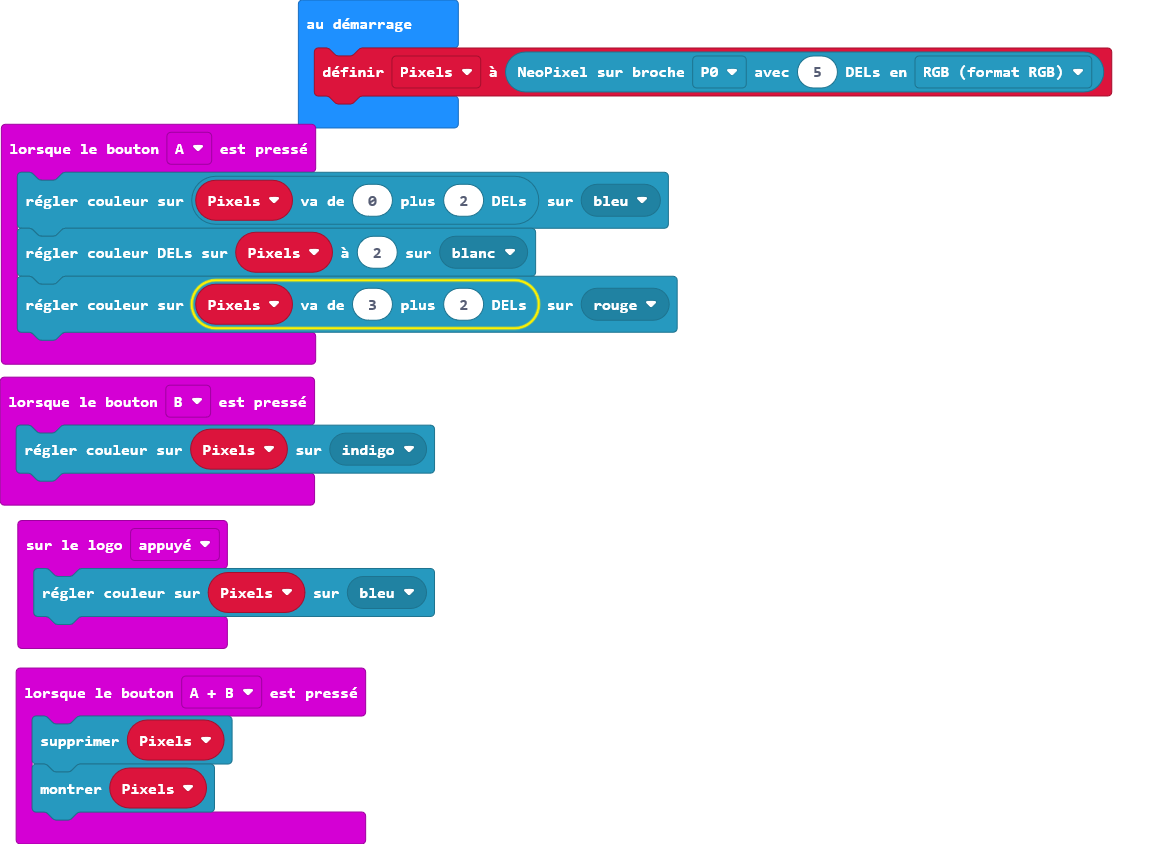
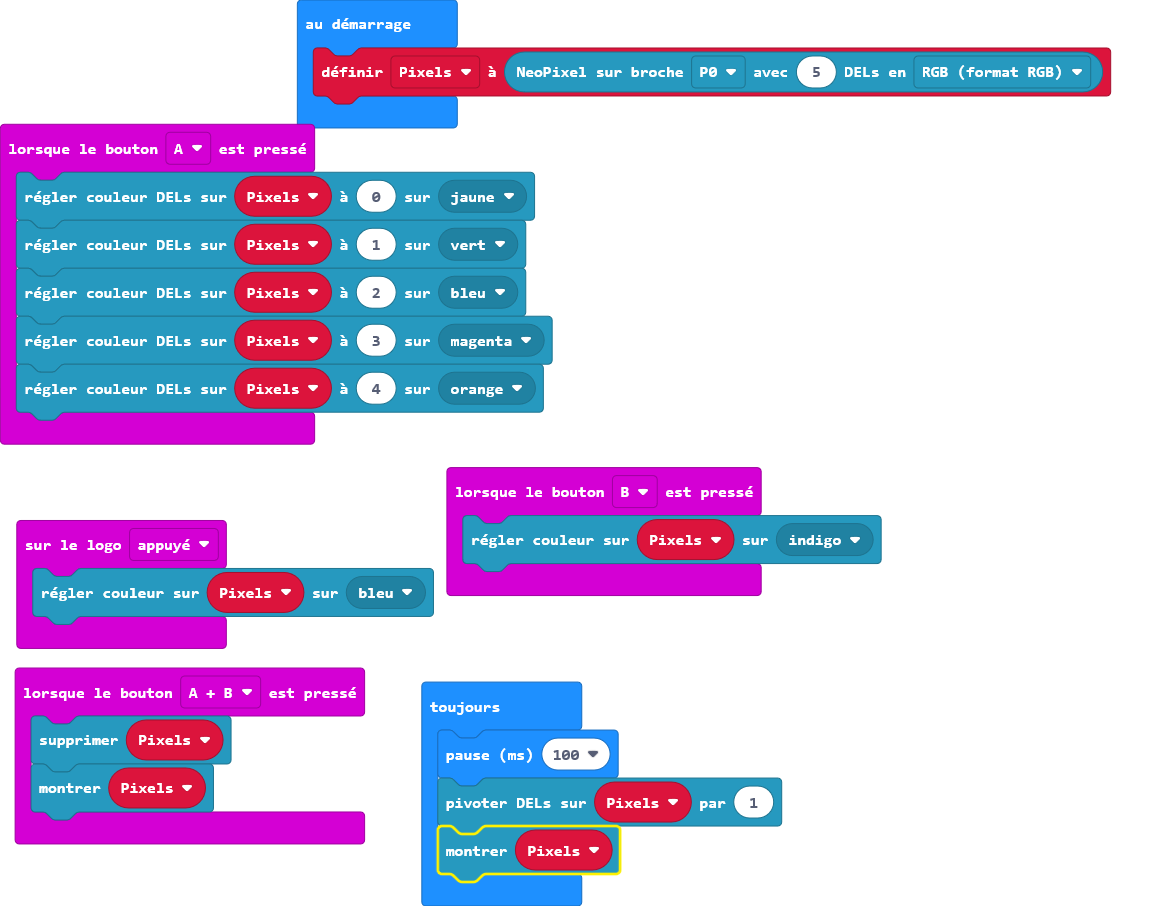
Mise à jour main.blocks, main.ts

diff --git a/main.ts b/main.ts
@@ -1,7 +1,9 @@
 input.onButtonPressed(Button.A, function () {
-    Pixels.range(0, 2).showColor(neopixel.colors(NeoPixelColors.Blue))
-    Pixels.setPixelColor(2, neopixel.colors(NeoPixelColors.White))
-    Pixels.range(3, 2).showColor(neopixel.colors(NeoPixelColors.Red))
+    Pixels.setPixelColor(0, neopixel.colors(NeoPixelColors.Yellow))
+    Pixels.setPixelColor(1, neopixel.colors(NeoPixelColors.Green))
+    Pixels.setPixelColor(2, neopixel.colors(NeoPixelColors.Blue))
+    Pixels.setPixelColor(3, neopixel.colors(NeoPixelColors.Purple))
+    Pixels.setPixelColor(4, neopixel.colors(NeoPixelColors.Orange))
 })
 input.onButtonPressed(Button.AB, function () {
     Pixels.clear()
@@ -15,3 +17,8 @@ input.onLogoEvent(TouchButtonEvent.Pressed, function () {
 })
 let Pixels: neopixel.Strip = null
 Pixels = neopixel.create(DigitalPin.P0, 5, NeoPixelMode.RGB)
+basic.forever(function () {
+    basic.pause(100)
+    Pixels.rotate(1)
+    Pixels.show()
+})
